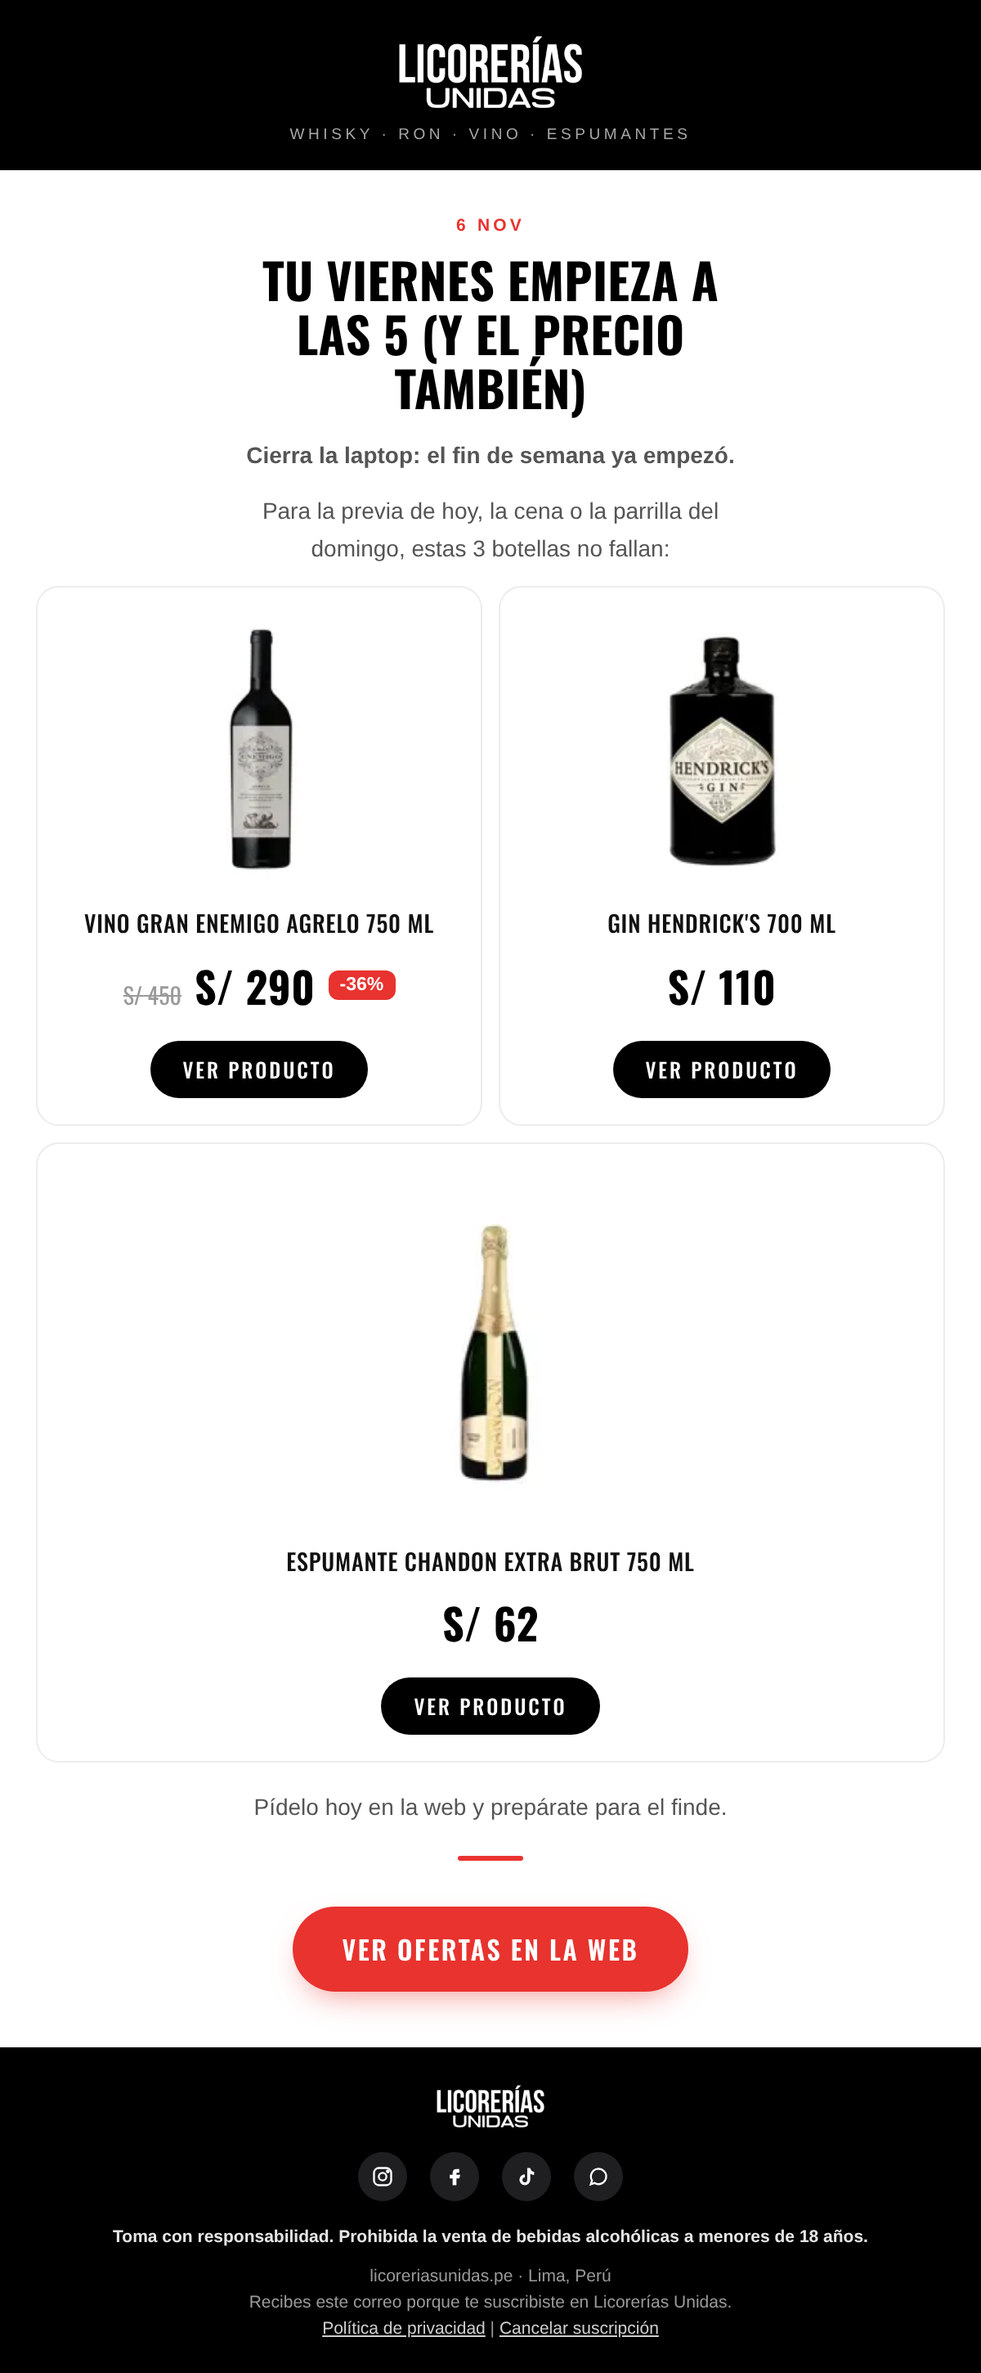
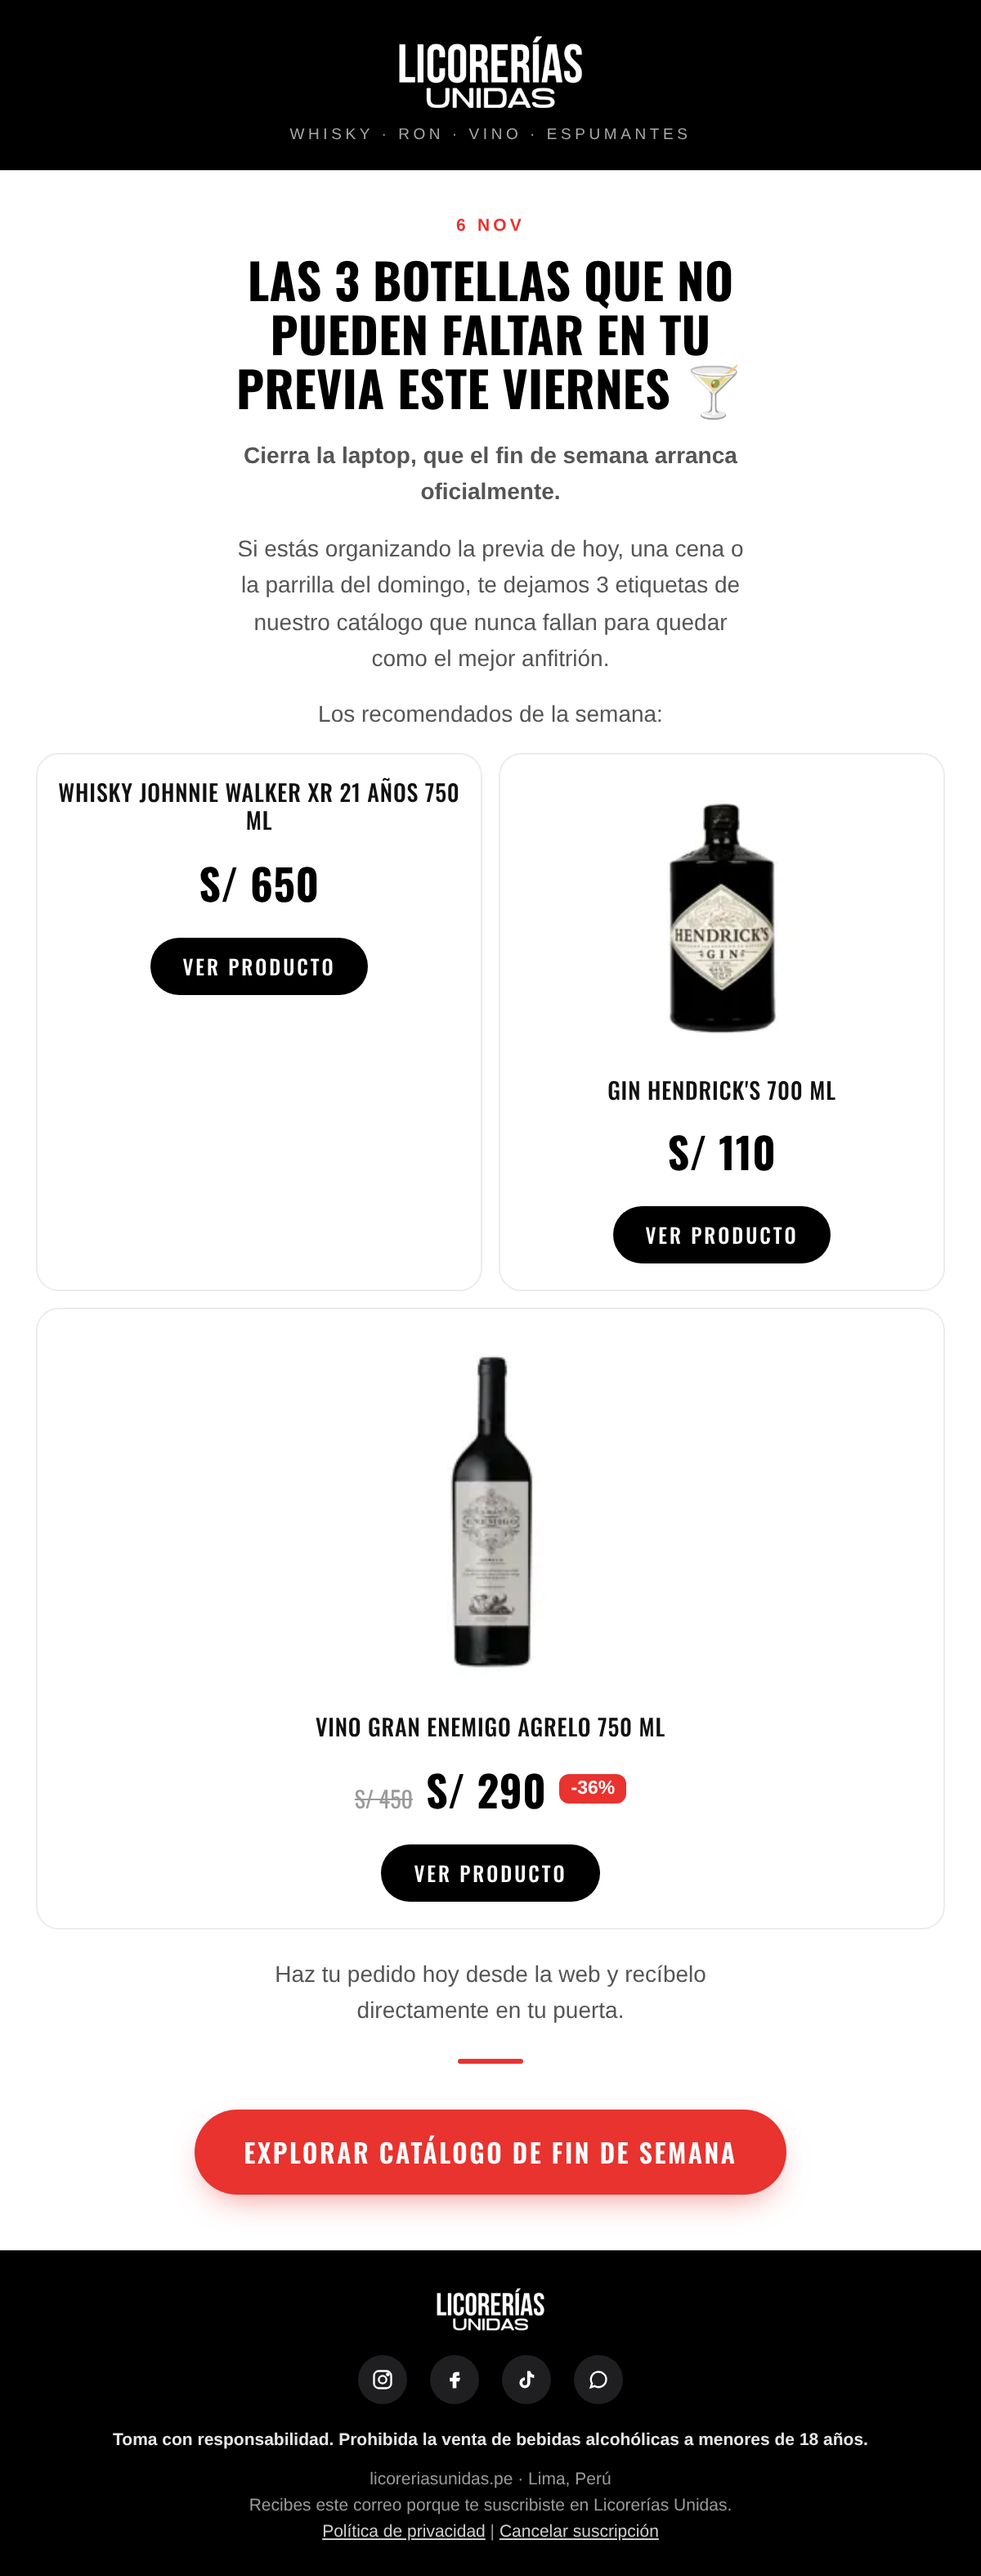
Mailing 06/11: usar la versión aprobada por Paolo
Claude-Session: https://claude.ai/code/session_0148WGEnZfS2ZRp3UxJqiBn1

Changed region(s): [[0.0, 0.0, 1.0, 0.4966], [0.0, 0.4966, 1.0, 0.9931], [0.0617, 0.2793, 0.1233, 0.3103]]

diff --git a/COPYS_MAILING_NOV_LU.md b/COPYS_MAILING_NOV_LU.md
@@ -29,25 +29,27 @@ Gran Malo es la marca de tequila de Luisito Comunica, y acaba de llegar a Licore
 
 ---
 
-## 2. Viernes 06/11 · Oferta de fin de semana
+## 2. Viernes 06/11 · Recomendación de fin de semana
 
-- **Asunto A:** Tu viernes empieza a las 5 (y el precio también)
-- **Asunto B:** Las 3 botellas de tu previa ya están elegidas
-- **Preheader:** Un tinto con S/ 160 menos, un gin y unas burbujas para el finde.
+- **Asunto A:** Las 3 botellas que no pueden faltar en tu previa este viernes 🍸
+- **Asunto B:** Tu viernes empieza a las 5 (y el precio también)
+- **Preheader:** Descubre los recomendados de la semana en LU para tus reuniones.
 
 **Cuerpo:**
 
-Cierra la laptop: el fin de semana ya empezó.
+Cierra la laptop, que el fin de semana arranca oficialmente.
 
-Para la previa de hoy, la cena o la parrilla del domingo, estas 3 botellas no fallan:
+Si estás organizando la previa de hoy, una cena o la parrilla del domingo, te dejamos 3 etiquetas de nuestro catálogo que nunca fallan para quedar como el mejor anfitrión.
 
-- **Vino Gran Enemigo Agrelo 750 ml:** antes S/ 450 · ahora S/ 290
+Los recomendados de la semana:
+
+- **Whisky Johnnie Walker XR 21 años 750 ml:** S/ 650
 - **Gin Hendrick's 700 ml:** S/ 110
-- **Espumante Chandon Extra Brut 750 ml:** S/ 62
+- **Vino Gran Enemigo Agrelo 750 ml:** antes S/ 450 · ahora S/ 290
 
-Pídelo hoy en la web y prepárate para el finde.
+Haz tu pedido hoy desde la web y recíbelo directamente en tu puerta.
 
-- **CTA:** Ver ofertas en la web
+- **CTA:** Explorar catálogo de fin de semana
 
 ---
 
